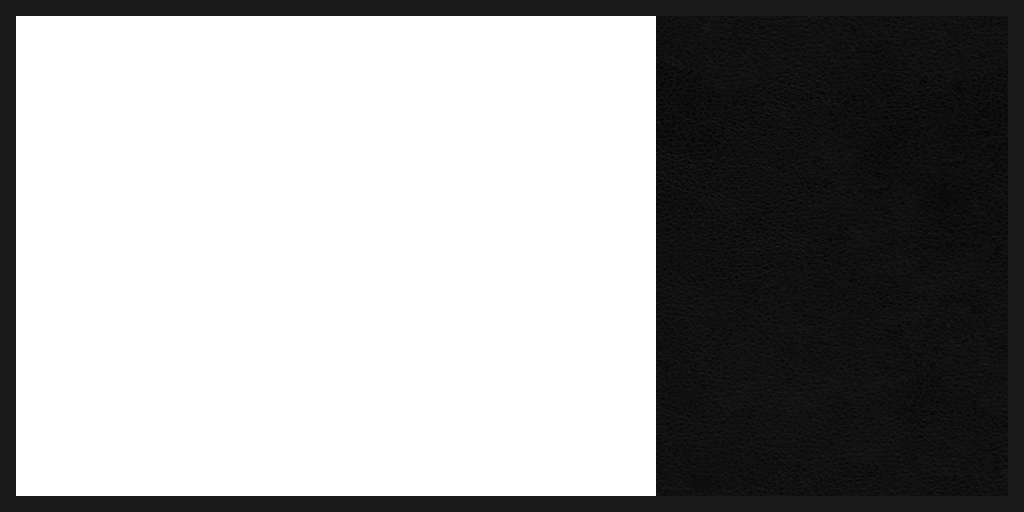
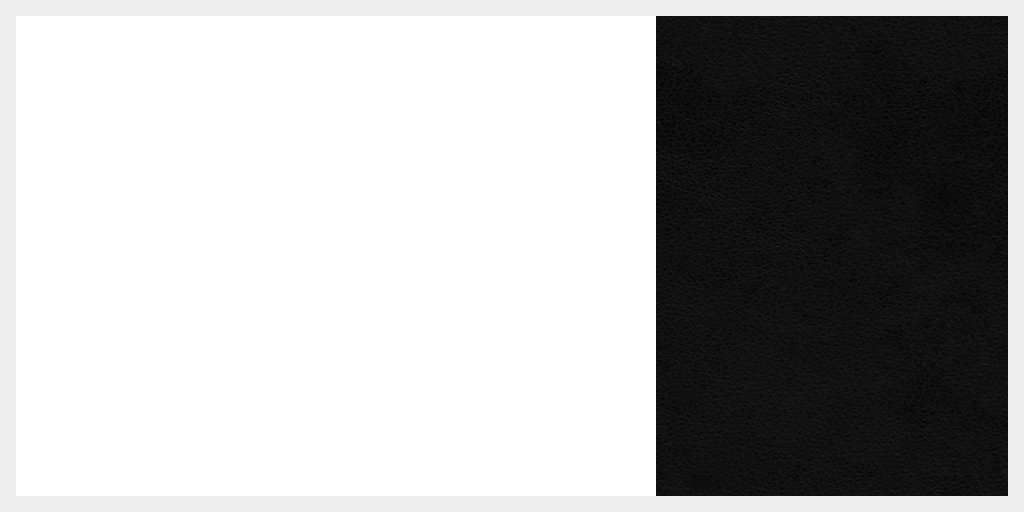
Removes req anim polyfill, doesnt work at gamejolt, updates bg

Changed region(s): [[0.0, 0.0, 1.0, 1.0]]

diff --git a/assets/javascripts/game.js b/assets/javascripts/game.js
@@ -1,5 +1,5 @@
-define(['reqanim', 'grid', 'zepto', 'entityFactory', 'moment', 'canvas', 'projectFactory'],
-  function(AnimationFrame, Grid, $, EntityFactory, moment, Canvas, ProjectFactory) {
+define(['grid', 'zepto', 'entityFactory', 'moment', 'canvas', 'projectFactory'],
+  function(Grid, $, EntityFactory, moment, Canvas, ProjectFactory) {
 
 	/**
 	 *
@@ -441,18 +441,11 @@ define(['reqanim', 'grid', 'zepto', 'entityFactory', 'moment', 'canvas', 'projec
 
       if(err) return alert(err);
 
-      // FPS 30
-  		var animFrame = new AnimationFrame(30),
-
-  			// Game loop specifics
-  			now = 0,
-  			then = 0,
-  			sub = 0,
-  			dt = 0.0;
-
-      // console.log("Testing Grid functionality");
-
-      // self.testGrid();
+      // Game loop specifics
+  		var now = 0,
+  			  then = 0,
+  			  sub = 0,
+  			  dt = 0.0;
 
   		/**
   		 * "The" loop
@@ -479,7 +472,7 @@ define(['reqanim', 'grid', 'zepto', 'entityFactory', 'moment', 'canvas', 'projec
         }
 
         // request next frame
-        animFrame.request(loop);
+        window.requestAnimationFrame(loop);
 
   		};
 

diff --git a/assets/javascripts/config.js b/assets/javascripts/config.js
@@ -4,7 +4,6 @@ require.config({
         jquery:         'lib/jquery',
         zepto:          'lib/zepto',
         deferred: 	  	'lib/deferred',
-        reqanim:        'lib/req-anim',
         moment:         'lib/moment'
     },
     map: {
@@ -23,9 +22,6 @@ require.config({
       },
       zepto: {
           exports: 'Zepto'
-      },
-      reqanim: {
-          exports: 'AnimationFrame'
       }
     }
 });
